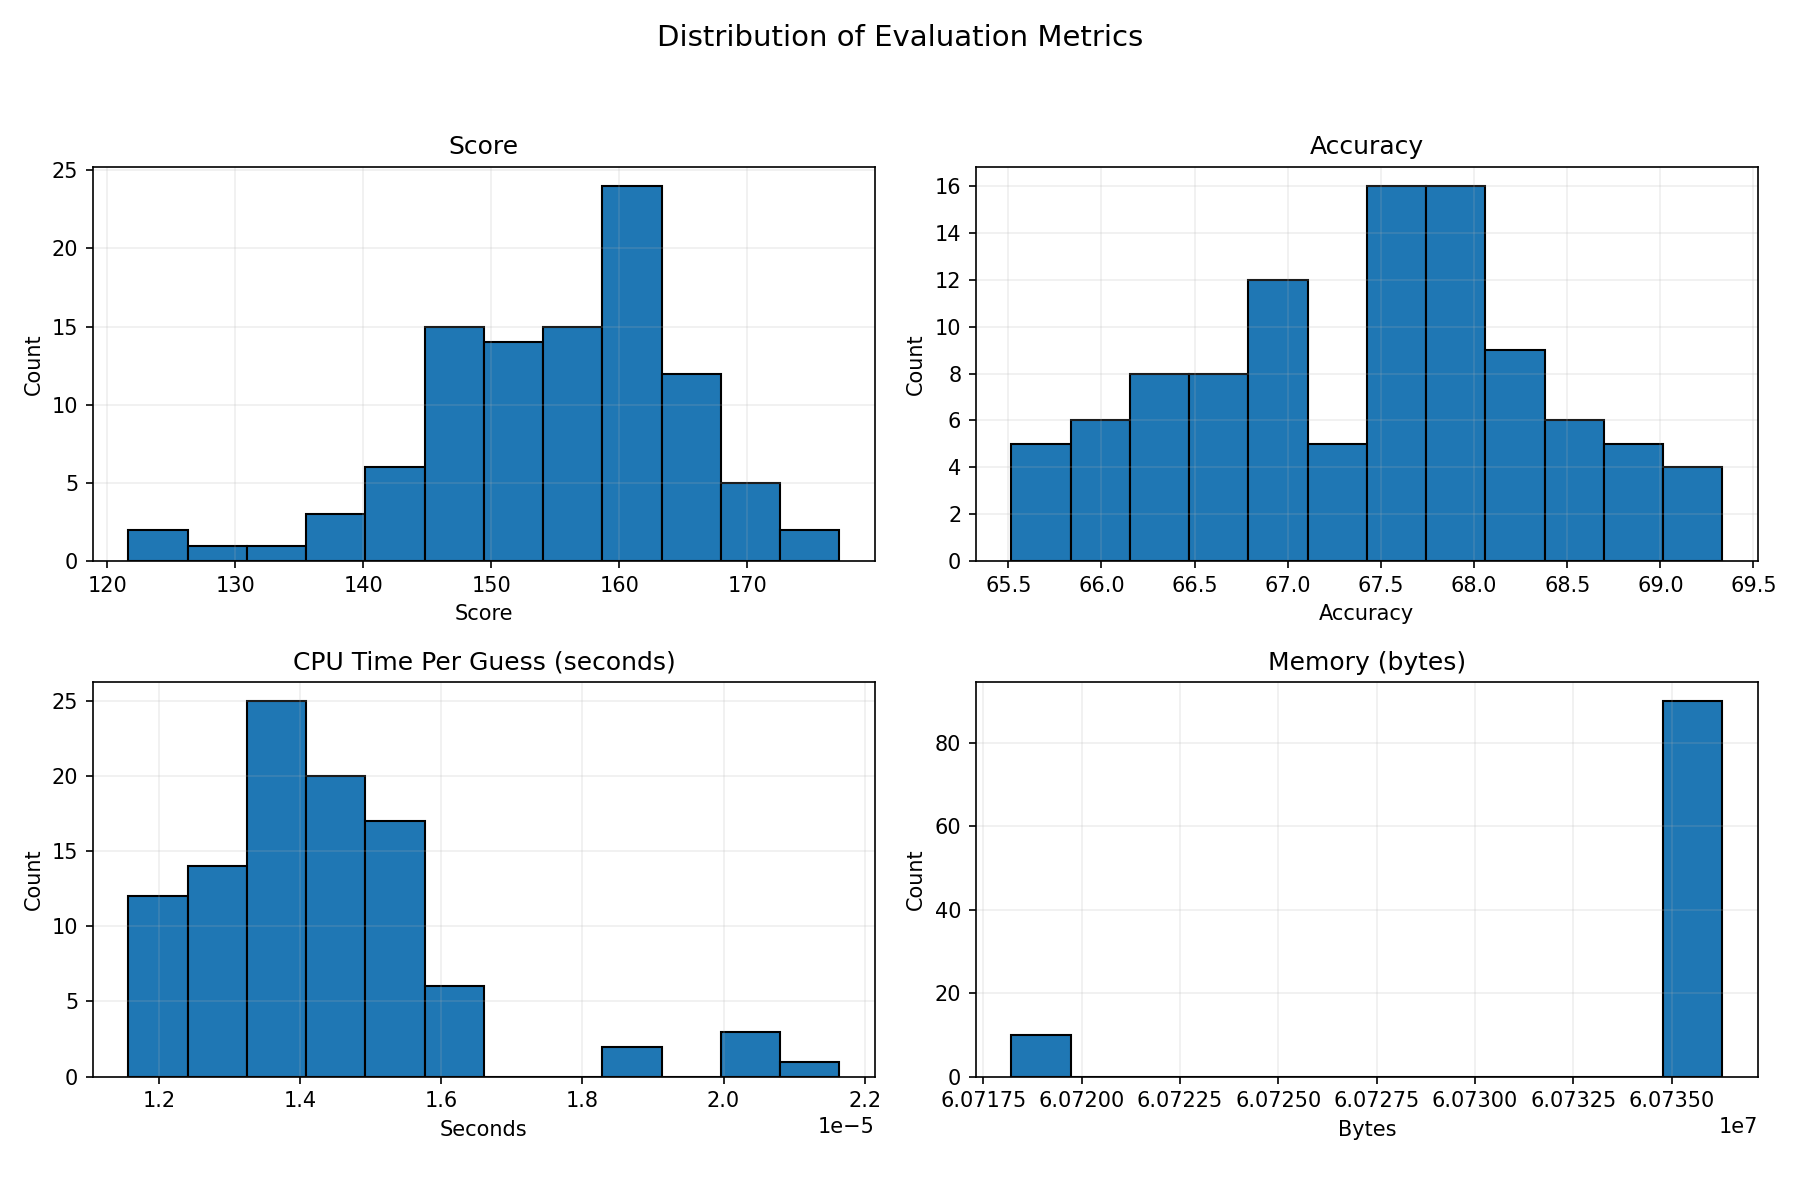
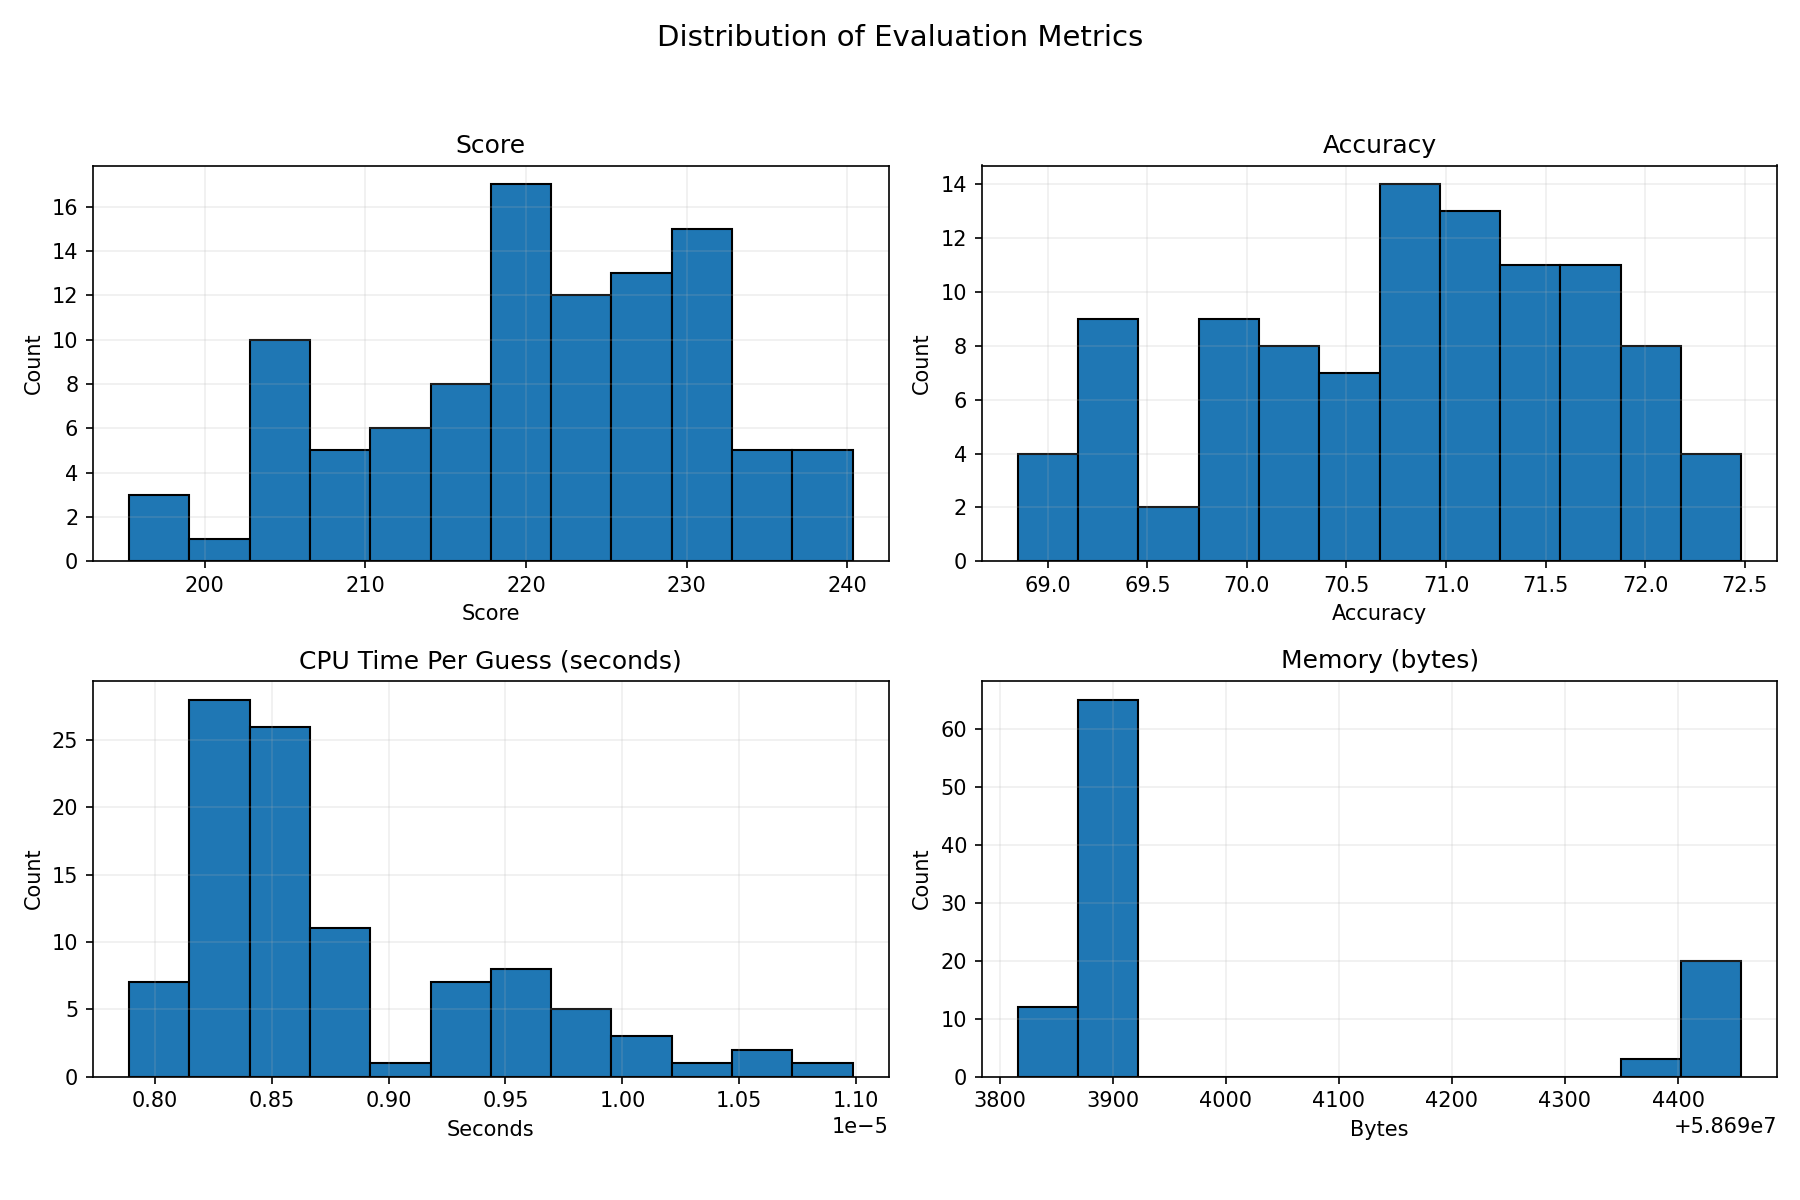
fixed the python batch evaluation

diff --git a/evaluate_all_hidden_words.py b/evaluate_all_hidden_words.py
@@ -15,15 +15,42 @@ REQUIRED_METRICS = (
     "score",
 )
 
+FLOAT_PATTERN = r"([-+]?(?:\d+(?:\.\d*)?|\.\d+)(?:[eE][-+]?\d+)?)"
+
 METRIC_PATTERNS = {
-    "accuracy": re.compile(r"^Accuracy:\s*([-+]?\d*\.?\d+(?:[eE][-+]?\d+)?)\s*$", re.MULTILINE),
+    "accuracy": re.compile(rf"^\s*Accuracy:\s*{FLOAT_PATTERN}\s*$", re.MULTILINE),
     "cpu_time_per_guess": re.compile(
-        r"^CPU time per guess in seconds:\s*([-+]?\d*\.?\d+(?:[eE][-+]?\d+)?)\s*$",
+        rf"^\s*CPU\s+time\s+per\s+guess\s+in\s+seconds:\s*{FLOAT_PATTERN}\s*$",
         re.MULTILINE,
     ),
-    "memory_bytes": re.compile(r"^Memory in bytes:\s*([-+]?\d+)\s*$", re.MULTILINE),
-    "score": re.compile(r"^Score:\s*([-+]?\d*\.?\d+(?:[eE][-+]?\d+)?)\s*$", re.MULTILINE),
+    "memory_bytes": re.compile(r"^\s*Memory\s+in\s+bytes:\s*([-+]?\d+)\s*$", re.MULTILINE),
+    "score": re.compile(rf"^\s*Score:\s*{FLOAT_PATTERN}\s*$", re.MULTILINE),
 }
+
+EXPECTED_LABELS = {
+    "accuracy": "Accuracy:",
+    "cpu_time_per_guess": "CPU time per guess in seconds:",
+    "memory_bytes": "Memory in bytes:",
+    "score": "Score:",
+}
+
+
+def metric_context(output: str, key: str) -> str:
+    expected_label = EXPECTED_LABELS[key].rstrip(":").lower()
+    context_lines = [
+        line for line in output.splitlines() if expected_label in line.lower()
+    ]
+
+    if key == "cpu_time_per_guess" and not context_lines:
+        context_lines = [
+            line
+            for line in output.splitlines()
+            if "cpu" in line.lower() or "time per guess" in line.lower()
+        ]
+
+    if not context_lines:
+        return "(No related output lines found.)"
+    return "\n".join(context_lines[:8])
 
 
 def run_command(args: list[str], cwd: Path) -> subprocess.CompletedProcess[str]:
@@ -41,8 +68,11 @@ def parse_metrics(output: str, hidden_file: str) -> dict[str, float]:
     for key in REQUIRED_METRICS:
         match = METRIC_PATTERNS[key].search(output)
         if not match:
+            expected_label = EXPECTED_LABELS[key]
             raise ValueError(
                 f"Could not parse '{key}' from evaluator output for {hidden_file}.\n"
+                f"Expected a line starting with '{expected_label}'.\n"
+                f"Related output lines:\n{metric_context(output, key)}\n"
                 f"--- Evaluator output start ---\n{output}\n--- Evaluator output end ---"
             )
         parsed[key] = float(match.group(1))
